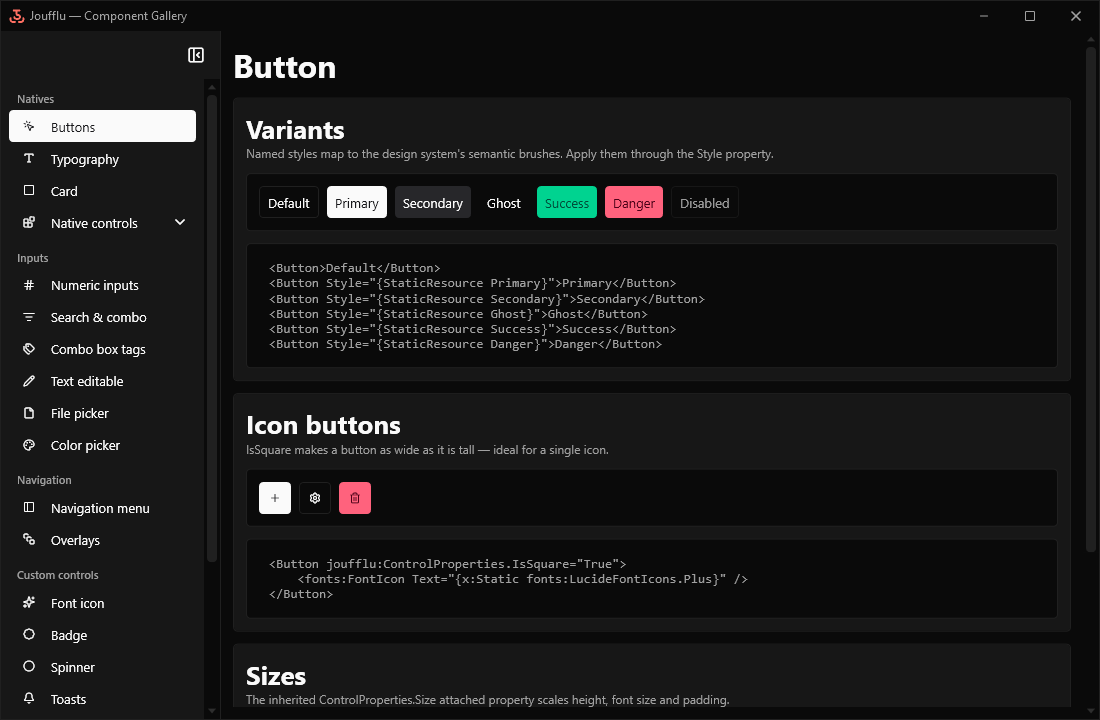
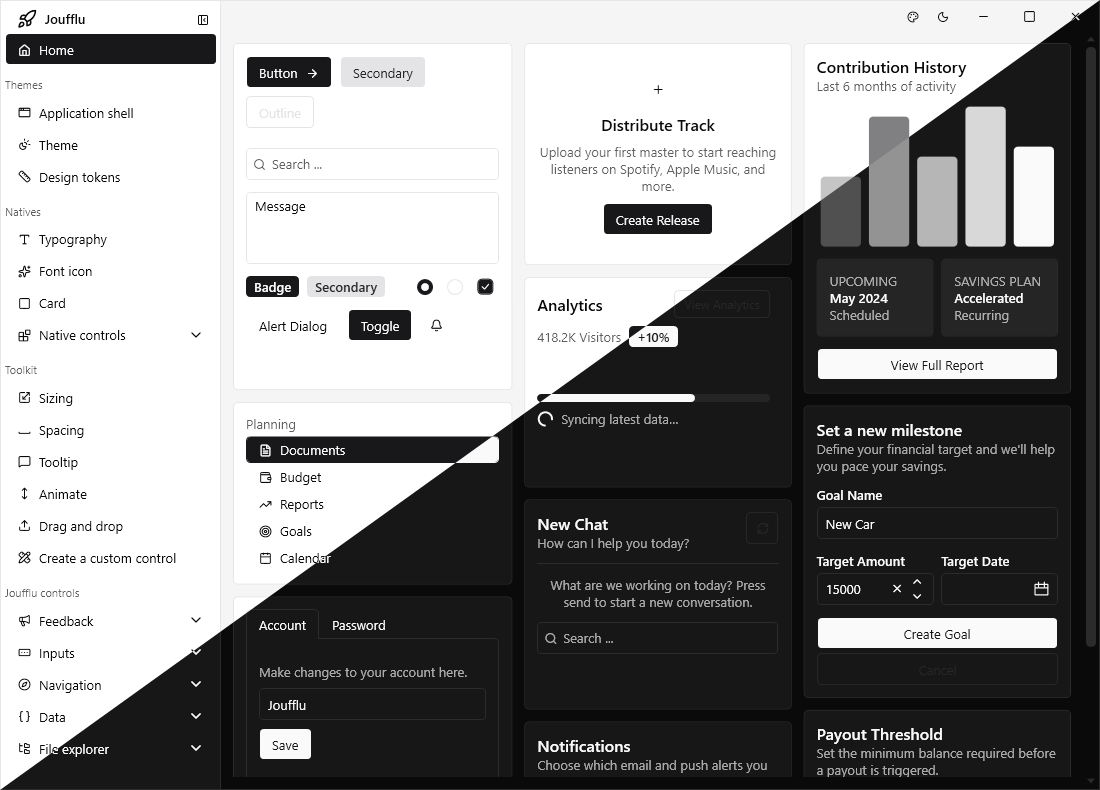
Add up to date preview

diff --git a/readme.md b/readme.md
@@ -15,7 +15,7 @@ live between Light and Dark - no restart, no flicker.
 [![Joufflu.Data on NuGet](https://img.shields.io/nuget/v/Joufflu.Data?label=Joufflu.Data&logo=nuget)](https://www.nuget.org/packages/Joufflu.Data)
 [![License: MIT](https://img.shields.io/badge/license-MIT-blue)](./LICENSE)
 
-![preview](./images/preview.PNG)
+![preview](./images/preview.png)
 
 ## Highlights
 
@@ -23,6 +23,8 @@ live between Light and Dark - no restart, no flicker.
 - 🎨 **A real design system, built to be customized** - semantic colours, dimensions, sizing and spacing exposed as override-able resource keys. Change a token and every control follows; the gallery's **Customize theme** window (palette button in its title bar) edits them live, offers presets and generates the dictionary to merge.
 - 🪟 **Custom-chrome window & natives** - a themed application shell plus restyled built-in WPF controls that match out of the box.
 - 📦 **Modular packages** - take just the core styles, or add inputs and navigation only where you need them.
+
+![customizer preview](./images/preview-customizer.png)
 
 Controls :
 - 🧩 **Ready-to-use inputs** - numeric, decimal and timespan pickers, searchable and tag combo boxes, file and colour pickers, inline-editable text, dropdowns.
